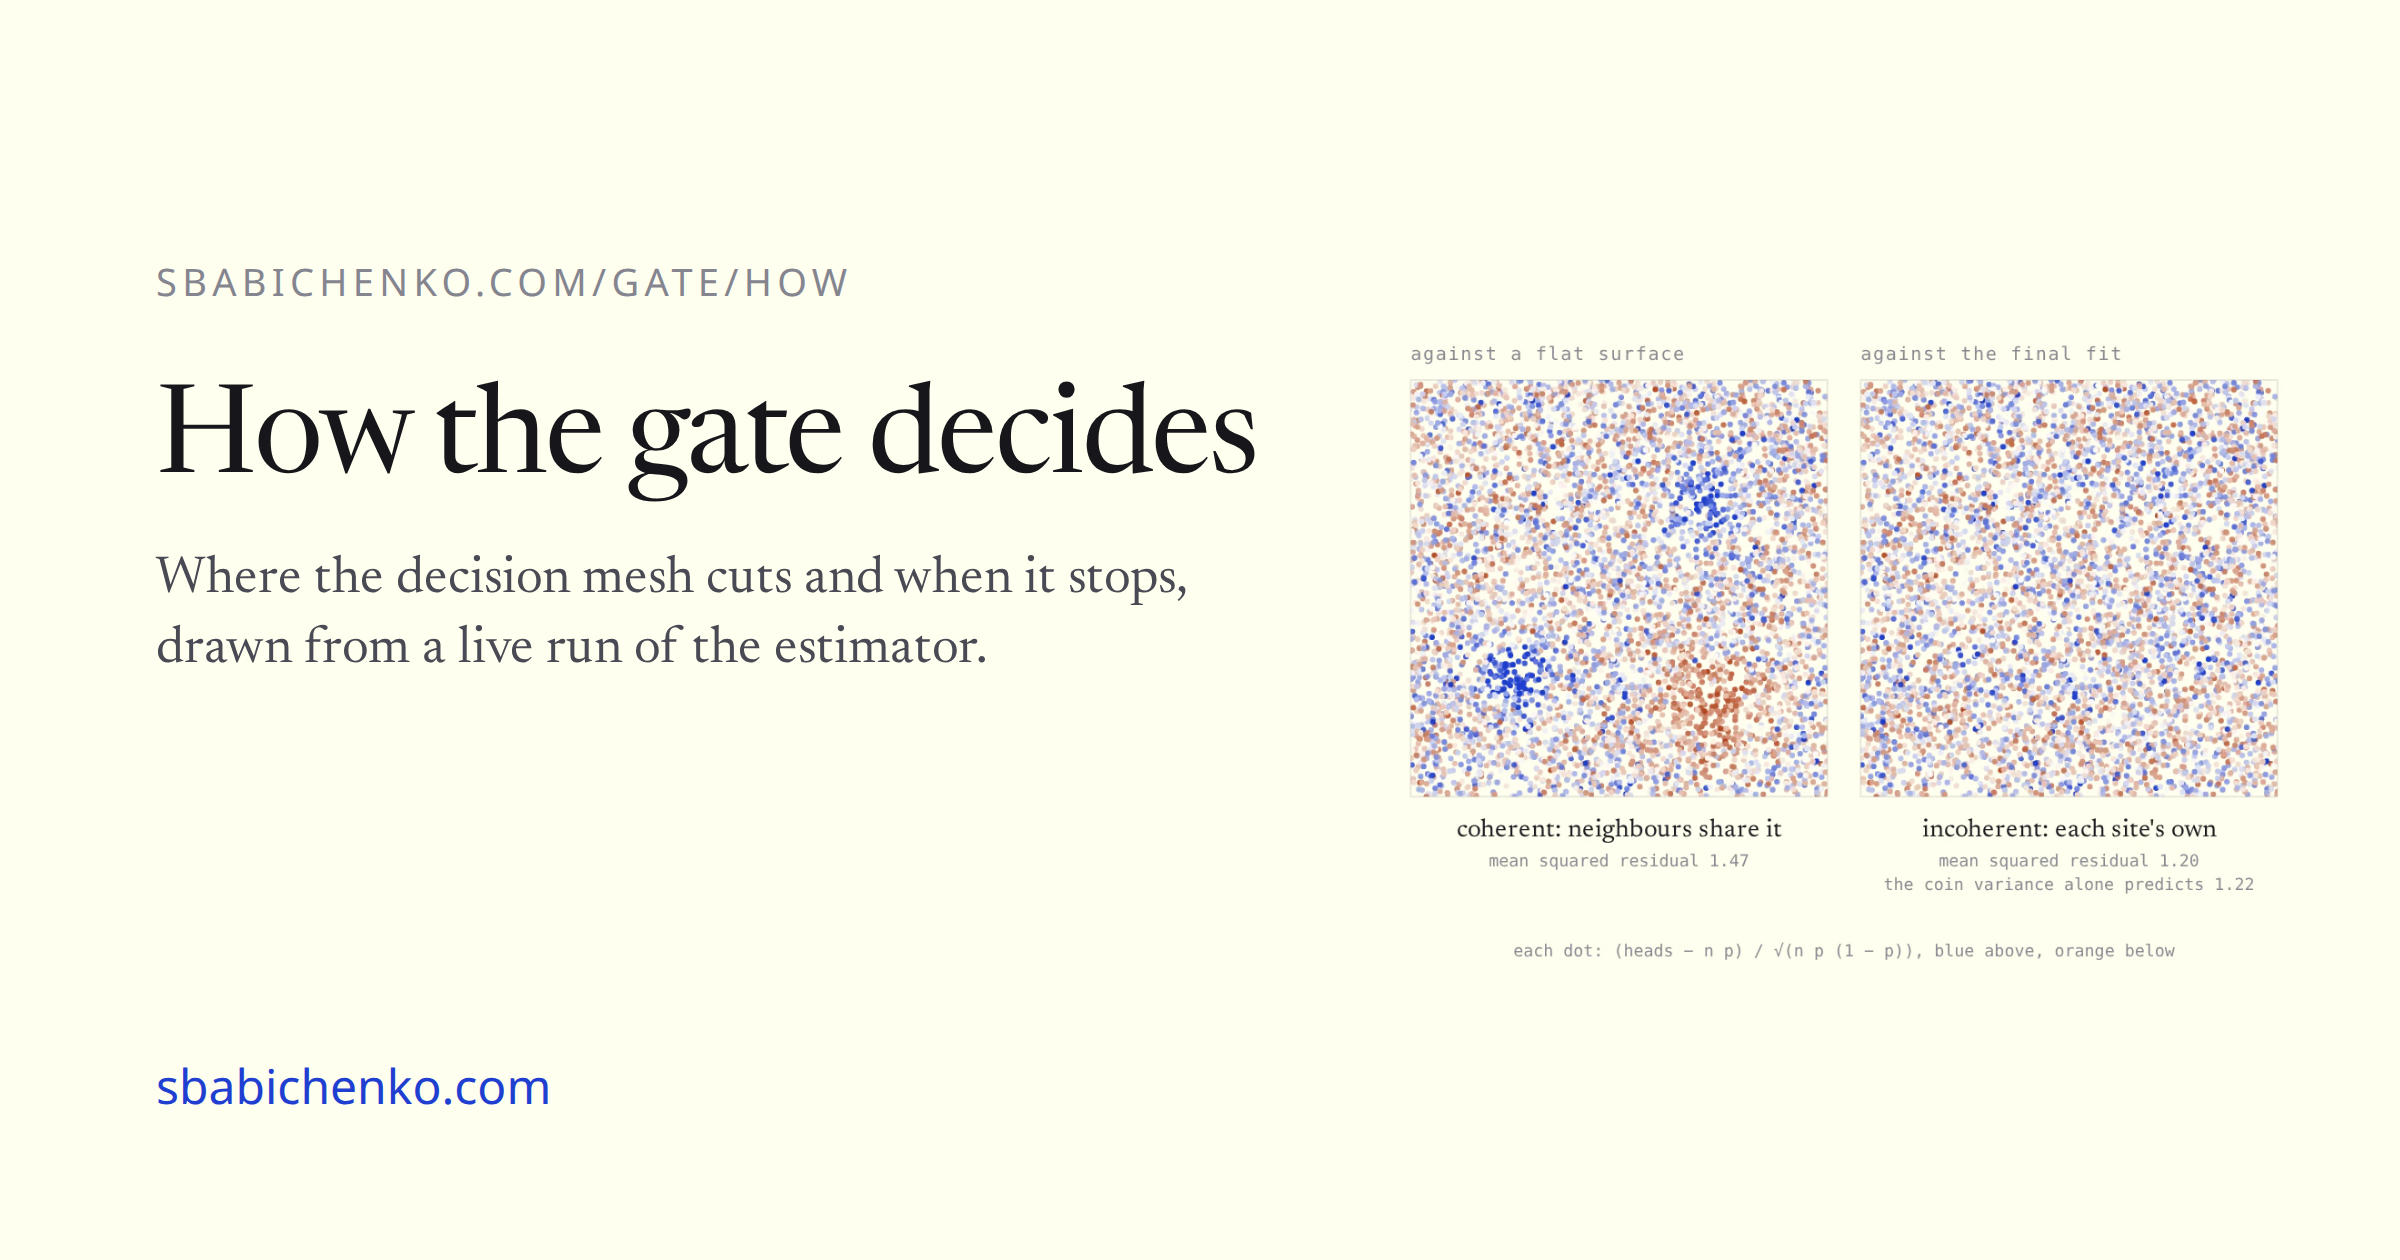
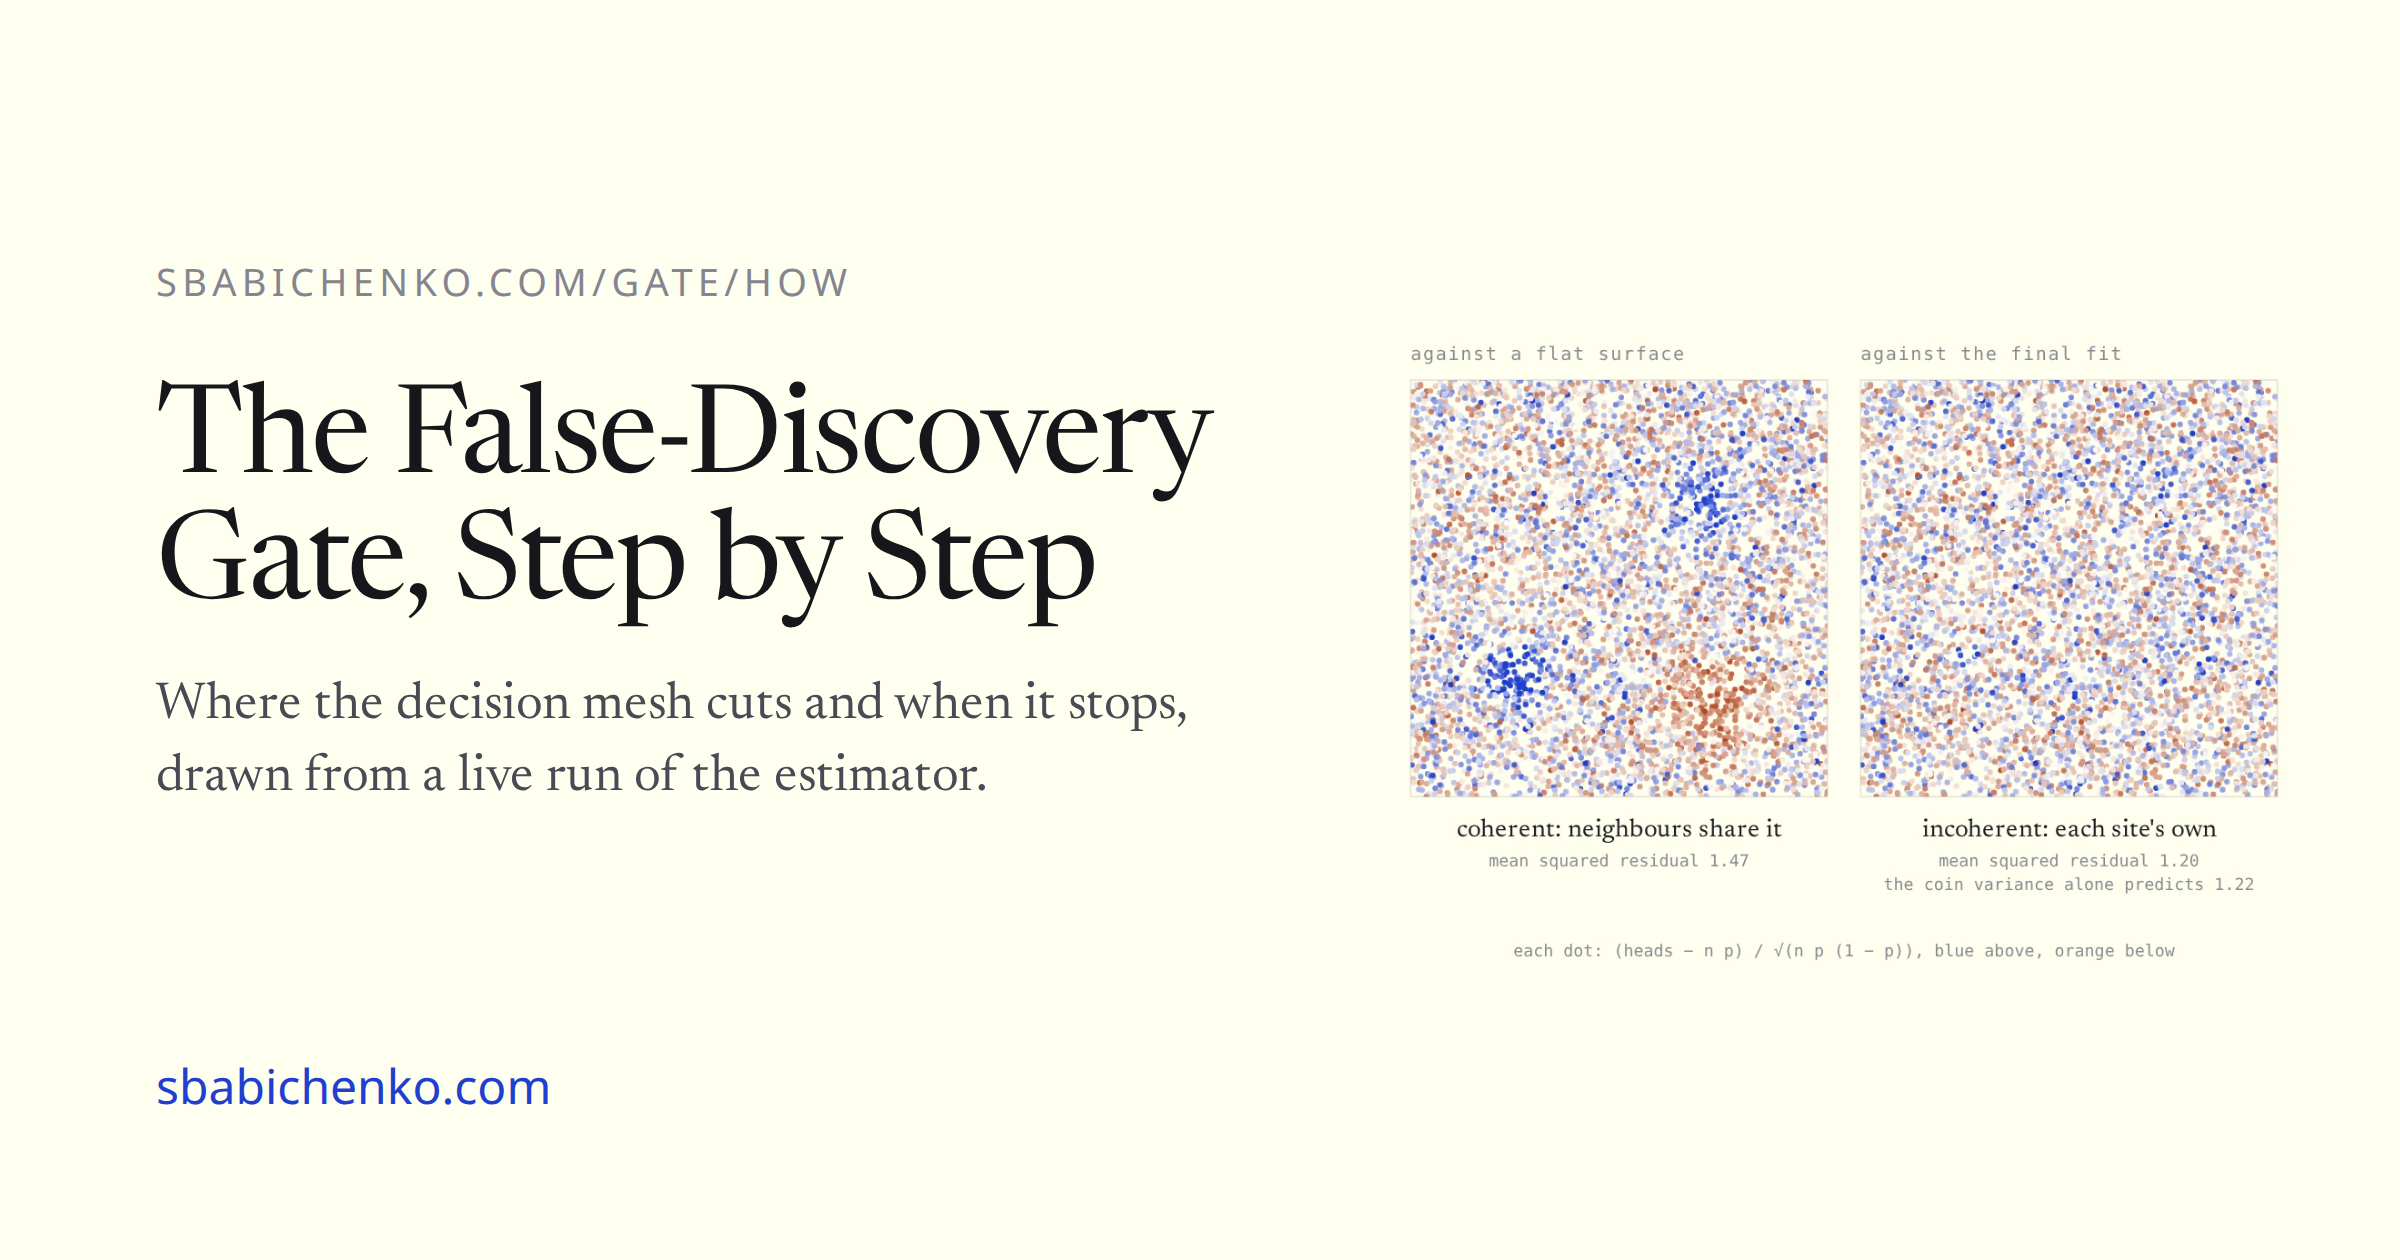
Descriptive titles in title case

Changed region(s): [[0.0625, 0.3095, 0.5312, 0.65]]

diff --git a/templates/projects.html b/templates/projects.html
@@ -44,7 +44,7 @@
       </section>
 
       <section>
-        <h2>Run it here</h2>
+        <h2>Interactive Demos</h2>
         <div class="demos">
           <a class="demo" href="{{ get_url(path='noisestate/') }}">
             <div class="shot">
@@ -52,7 +52,7 @@
               <img class="img-dark" src="{{ get_url(path='images/card-noisestate-dark.webp') }}" alt="" width="480" height="240" />
             </div>
             <div class="body">
-              <h3>Games played through noise</h3>
+              <h3>Noise-State Game Explorer</h3>
               <p>Actions move the state, the state sets what others observe, and what they observe sets
                 their next actions. My dissertation keeps that loop intact by tracking beliefs about the
                 primitive shocks. Move a slider and the equilibrium is solved again in about a second.</p>
@@ -66,7 +66,7 @@
               <img class="img-dark" src="{{ get_url(path='images/card-gate-dark.webp') }}" alt="" width="480" height="240" />
             </div>
             <div class="body">
-              <h3>A mesh that knows when to stop</h3>
+              <h3>Gated Decision Mesh</h3>
               <p>Thousands of coins, each flipped a few times, and odds that change somewhere on the square.
                 The estimator cuts a mesh only where a false-discovery gate says the flips justify it, then
                 stops on its own. Draw the odds yourself and see what it can find.</p>
@@ -76,7 +76,7 @@
           </a>
           <a class="demo slim wide" href="{{ get_url(path='mesh/') }}">
             <div class="body">
-              <h3>Two kinds of triangle, rectangles and a tree</h3>
+              <h3>Decision Mesh Geometries Compared</h3>
               <p>Freeform triangles, right triangles, rectangles and a regression tree, grown on the same noisy surface
                 one greedy cut at a time, with the same number of free parameters each. No gate here.</p>
               <span class="go">Open the page <span class="arrow">&rarr;</span></span>
@@ -86,11 +86,11 @@
       </section>
 
       <section>
-        <h2>Illustrated explanations <span class="note">drawings that build as you scroll; the numbers are computed as you read</span></h2>
+        <h2>Illustrated Explanations</h2>
         <div class="demos stories">
           <a class="demo slim" href="{{ get_url(path='dissertation/idea/') }}">
             <div class="body">
-              <h3>From beliefs about beliefs to the noise-state</h3>
+              <h3>The Noise-State, Explained</h3>
               <p>Why every belief, price and action in these games is an impulse response, and how forecasting the
                 forecasts of others collapses into a composition of kernels.</p>
               <span class="go">Read it <span class="arrow">&rarr;</span></span>
@@ -106,7 +106,7 @@
           </a>
           <a class="demo slim" href="{{ get_url(path='gate/how/') }}">
             <div class="body">
-              <h3>How the gate decides</h3>
+              <h3>The False-Discovery Gate, Step by Step</h3>
               <p>Where the decision mesh cuts and when it stops: bias-corrected scores, an empirical null, a false-discovery
                 cutoff, drawn from a live run of the estimator in your browser.</p>
               <span class="go">Read it <span class="arrow">&rarr;</span></span>
@@ -124,7 +124,7 @@
       </section>
 
       <section>
-        <h2>Work</h2>
+        <h2>Projects</h2>
         <div class="work">
           {% for project in data.project %}
           <article class="item{% if project.detour %} with-still{% endif %}">

diff --git a/tools/make_og.js b/tools/make_og.js
@@ -15,7 +15,7 @@ const CARDS = [
     sub: "Games played through noise, and regressions that decide where to look." },
   { out: "og-noisestate.png", art: "image", src: "/images/card-noisestate-light.webp", titleWidth: 440,   // clear of the curves
     eyebrow: "sbabichenko.com/noisestate",
-    title: "Noise-state game explorer",
+    title: "Noise-State Game Explorer",
     sub: "Solve a linear-quadratic-Gaussian game in your browser: shock responses, sample paths, sweeps." },
   { out: "og-mesh.png", art: "mesh", surface: "cliff", seed: 77,
     eyebrow: "sbabichenko.com/mesh",
@@ -23,11 +23,11 @@ const CARDS = [
     sub: "Freeform triangles, right triangles, rectangles and a regression tree fit the same noisy surface." },
   { out: "og-gate.png", art: "image", src: "/images/card-gate-light.webp",
     eyebrow: "sbabichenko.com/gate",
-    title: "A mesh that knows when to stop",
+    title: "Gated Decision Mesh",
     sub: "Coin flips fitted in your browser by an estimator that cuts only where a false-discovery gate allows." },
   { out: "og-idea.png", art: "image", fit: "contain", src: "/images/card-idea.webp",
     eyebrow: "sbabichenko.com/dissertation/idea",
-    title: "From beliefs about beliefs to the noise-state",
+    title: "The Noise-State, Explained",
     sub: "Why every belief in these games is an impulse response, told with drawings computed as you read." },
   { out: "og-wedge.png", art: "image", fit: "contain", src: "/images/card-wedge.webp",
     eyebrow: "sbabichenko.com/dissertation/wedge",
@@ -35,7 +35,7 @@ const CARDS = [
     sub: "The information wedge, solved live: what moving an opponent's beliefs is worth." },
   { out: "og-gate-how.png", art: "image", fit: "contain", src: "/images/card-gate-how.webp",
     eyebrow: "sbabichenko.com/gate/how",
-    title: "How the gate decides",
+    title: "The False-Discovery Gate, Step by Step",
     sub: "Where the decision mesh cuts and when it stops, drawn from a live run of the estimator." },
   { out: "og-dissertation.png", art: "shocks", seed: 5, titleWidth: 1000,   // one line: the title is the book's first sentence
     eyebrow: "sbabichenko.com/dissertation",

diff --git a/templates/gate.html b/templates/gate.html
@@ -11,7 +11,7 @@
 
     <main class="explorer mesh gate" id="gate" data-worker="{{ get_url(path='mesh/fit-worker.js') }}">
       <div class="crumbs"><a href="{{ get_url(path='') }}">Projects</a> &nbsp;/&nbsp; <a href="{{ get_url(path='mesh/') }}">Decision Mesh</a> &nbsp;/&nbsp; The gate</div>
-      <h1>A mesh that knows when to stop</h1>
+      <h1>Gated Decision Mesh</h1>
       <p class="sub">The odds of a coin vary over this square. A few thousand sites each flip a coin a handful of
         times. The estimator refines a mesh of right triangles or rectangles only where a false-discovery gate finds
         support in the flips, and stops when no candidate passes.</p>
@@ -70,7 +70,7 @@
       <div id="results" class="stale">
         <section class="panel"><div class="cards" id="cards"></div></section>
         <section class="panel">
-          <h2>The gate, round by round</h2>
+          <h2>Round-by-Round Results</h2>
           <div class="tablewrap" id="rounds"></div>
           <p class="caption">Each round scores every candidate vertex (the midpoints of the mesh's edges) by how much
             it would improve the fit. If no candidate mattered, the scores would look like draws from one bell curve, the
@@ -80,7 +80,7 @@
             back to the textbook one. Each coin also has an effect of its own on the log-odds, and the coin variance is
             the estimator's estimate of their spread, fitted alongside the surface: as the mesh learns the odds, what it
             can't explain shrinks toward the spread the slider set.
-            <a href="{{ get_url(path='gate/how/') }}">How the gate decides</a> draws each of these steps from a live run.</p>
+            <a href="{{ get_url(path='gate/how/') }}">The False-Discovery Gate, Step by Step</a> draws each of these steps from a live run.</p>
         </section>
       </div>
 

diff --git a/templates/mesh.html b/templates/mesh.html
@@ -99,7 +99,7 @@
       </section>
 
       <section class="panel">
-        <h2>Error against the truth</h2>
+        <h2>Error Against the Truth</h2>
         <div class="cv wide"><canvas id="cvcurve" width="900" height="220"></canvas></div>
         <p class="caption">Root-mean-square distance from the true surface over the square, against the number of free
           parameters; the dashed line is the noise &sigma;. Over a whole run, on all six surfaces the right triangles get closest to the
@@ -132,7 +132,7 @@
         <p>None of these four has a stopping rule: they grow until the page runs out of budget. The estimator I actually
           use chooses its cuts with an empirical-null false-discovery gate and stops by itself;
           <a href="{{ get_url(path='gate/') }}">it runs here too</a>, compiled from its C++, and
-          <a href="{{ get_url(path='gate/how/') }}">How the gate decides</a> walks through one of its fits step by step.</p>
+          <a href="{{ get_url(path='gate/how/') }}">The False-Discovery Gate, Step by Step</a> walks through one of its fits.</p>
         <p>Also on this site: the <a href="{{ get_url(path='noisestate/') }}">noise-state game explorer</a>, which solves the games of my dissertation in your browser.</p>
       </div>
     </main>

diff --git a/templates/404.html b/templates/404.html
@@ -11,7 +11,7 @@
       <section class="hero lost">
         <canvas id="heroink" data-mode="nothing" aria-hidden="true"></canvas>
         <p class="eyebrow">404</p>
-        <h1>Nothing here</h1>
+        <h1>Page Not Found</h1>
         <p class="lede">No page at this address.</p>
         <p class="lede"><a class="back" href="{{ get_url(path='') }}">Back to the front &rarr;</a></p>
       </section>
@@ -21,14 +21,14 @@
         <div class="demos">
           <a class="demo slim" href="{{ get_url(path='noisestate/') }}">
             <div class="body">
-              <h3>Games played through noise</h3>
+              <h3>Noise-State Game Explorer</h3>
               <p>Solve a linear-quadratic-Gaussian game in your browser.</p>
               <span class="go">Open the explorer <span class="arrow">&rarr;</span></span>
             </div>
           </a>
           <a class="demo slim" href="{{ get_url(path='gate/') }}">
             <div class="body">
-              <h3>A mesh that knows when to stop</h3>
+              <h3>Gated Decision Mesh</h3>
               <p>Draw the odds of a coin and watch a false-discovery gate decide where to cut.</p>
               <span class="go">Open the page <span class="arrow">&rarr;</span></span>
             </div>

diff --git a/templates/explorer.html b/templates/explorer.html
@@ -14,7 +14,7 @@
 
     <main class="explorer">
       <div class="crumbs"><a href="{{ get_url(path='') }}">Projects</a> &nbsp;/&nbsp; Noise-state calculus for dynamic games with strategic information</div>
-      <h1>Noise-state game explorer</h1>
+      <h1>Noise-State Game Explorer</h1>
       <p class="sub">Dynamic games with dispersed private information look hard, even when linearized, because each player
         needs forecasts of others' forecasts, without end. The regress comes from a loop: actions move the state, the
         state generates observations, observations update beliefs, and beliefs determine actions. <a href="{{ get_url(path='dissertation/') }}">My dissertation</a> builds
@@ -112,7 +112,7 @@
       <div id="results"></div>
 
       <section class="panel" id="sweeppanel" hidden>
-        <h2>Sweep a parameter</h2>
+        <h2>Parameter Sweep</h2>
         <div class="row">
           <label for="sweepkey" class="small muted">Vary</label><select id="sweepkey"></select>
           <button class="secondary" id="sweepbtn">Sweep</button>

diff --git a/templates/thesis.html b/templates/thesis.html
@@ -40,7 +40,7 @@
         <div class="kicker"><a href="{{ get_url(path='dissertation/') }}">Noise-state calculus &middot; dissertation</a></div>
         {%- if slug == "introduction" or slug == "chapter-1" %}
         <nav class="pictures" aria-label="Illustrated explanations">
-          <a href="{{ get_url(path='dissertation/idea/') }}"><span>Illustrated</span><b>From beliefs about beliefs to the noise-state</b></a>
+          <a href="{{ get_url(path='dissertation/idea/') }}"><span>Illustrated</span><b>The Noise-State, Explained</b></a>
           <a href="{{ get_url(path='dissertation/wedge/') }}"><span>Illustrated</span><b>The price of changing someone&rsquo;s mind</b></a>
         </nav>
         {%- endif %}

diff --git a/templates/gate-how.html b/templates/gate-how.html
@@ -14,7 +14,7 @@
     <main class="opening idea gatehow" id="gatehow" data-engine="tri" data-worker="{{ get_url(path='mesh/fit-worker.js') }}">
       <section class="ideahead">
         <p class="eyebrow"><a href="{{ get_url(path='mesh/') }}">Decision Mesh</a> &middot; <a href="{{ get_url(path='gate/') }}">The gate</a> &middot; illustrated</p>
-        <h1>How the gate decides</h1>
+        <h1>The False-Discovery Gate, Step by Step</h1>
         <p class="lede">The decision mesh adds a vertex only where the data support one, and stops when nothing
           else does. The drawings below come from one run of the estimator in your browser, on coin flips drawn on this
           page.</p>

diff --git a/templates/idea.html b/templates/idea.html
@@ -13,7 +13,7 @@
     <main class="opening idea">
       <section class="ideahead">
         <p class="eyebrow"><a href="{{ get_url(path='dissertation/') }}">Dissertation</a> &middot; illustrated explanation</p>
-        <h1>From beliefs about beliefs to the noise-state</h1>
+        <h1>The Noise-State, Explained</h1>
         <p class="lede">Why the dissertation writes everything as impulse responses. Every drawing below is computed on this
           page from one small problem: a state <i>X</i> pushed around by random shocks, watched by two players through
           their own noisy signals.</p>

diff --git a/content/gate-how.md b/content/gate-how.md
@@ -1,5 +1,5 @@
 +++
-title = "How the gate decides"
+title = "The False-Discovery Gate, Step by Step"
 description = "The decision-mesh estimators' gate, step by step: the candidates, their bias-corrected scores, the empirical null, the false-discovery cutoff, admission, and the two variances. Every drawing comes from a live run of the estimator in your browser."
 path = "gate/how"
 template = "gate-how.html"

diff --git a/content/noisestate.md b/content/noisestate.md
@@ -1,5 +1,5 @@
 +++
-title = "Game explorer"
+title = "Noise-State Game Explorer"
 description = "The games of my dissertation, solved in your browser: linear-quadratic-Gaussian games with dispersed private information, where actions teach others what you know. Shock responses, information wedges, sample paths and regime changes, computed live."
 path = "noisestate"
 template = "explorer.html"

diff --git a/content/dissertation/idea.md b/content/dissertation/idea.md
@@ -1,5 +1,5 @@
 +++
-title = "From beliefs about beliefs to the noise-state"
+title = "The Noise-State, Explained"
 description = "Why impulse responses: how forecasting the forecasts of others collapses once every belief is written against the primitive shocks. A picture story, computed live on a small filtering problem."
 path = "dissertation/idea"
 template = "idea.html"
